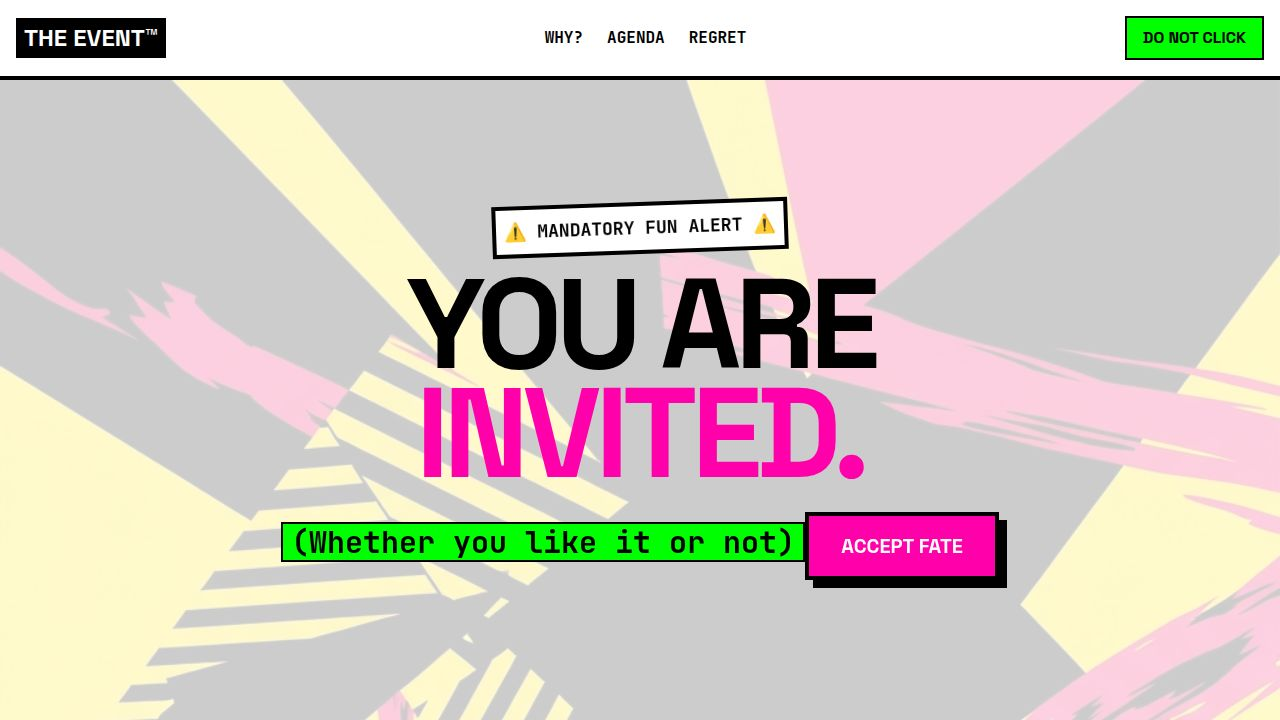
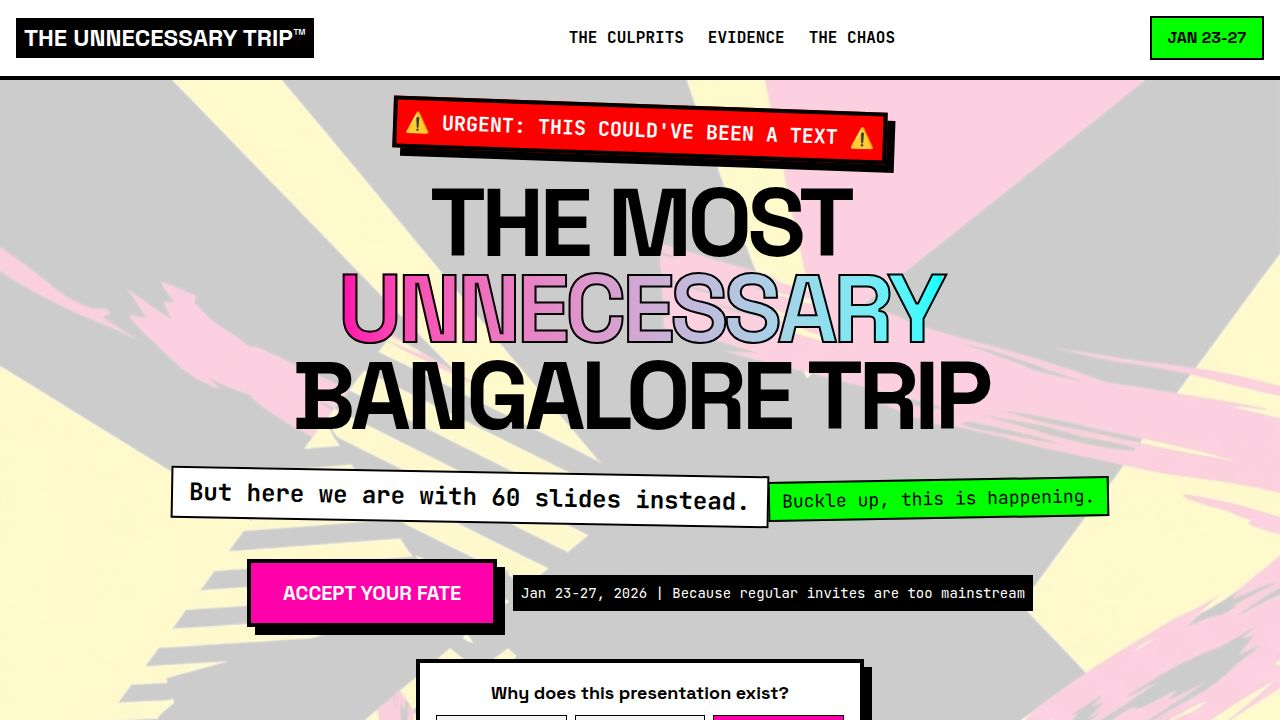
Add a random Devayan jumpscare with music and sarcastic messages
Implement a random jumpscare feature that displays Devayan's image with sound and sarcastic text at random intervals, while also removing Devayan from the team profiles.

Replit-Commit-Author: Agent
Replit-Commit-Session-Id: d5d1d54e-b9a4-4306-8450-256d322cb4c3
Replit-Commit-Checkpoint-Type: full_checkpoint
Replit-Commit-Event-Id: 7fbc8751-13cf-4ea3-a5c9-9e73721240c1
Replit-Commit-Screenshot-Url: https://storage.googleapis.com/screenshot-production-us-central1/db24287d-5229-44f9-9af5-19671401fdfd/d5d1d54e-b9a4-4306-8450-256d322cb4c3/vWiyXXo
Replit-Helium-Checkpoint-Created: true

diff --git a/client/src/pages/home.tsx b/client/src/pages/home.tsx
@@ -1,6 +1,6 @@
 import { useState, useEffect, useCallback } from "react";
 import { Link } from "wouter";
-import { motion } from "framer-motion";
+import { motion, AnimatePresence } from "framer-motion";
 import useEmblaCarousel from "embla-carousel-react";
 
 // Importing the actual assets provided
@@ -11,7 +11,7 @@ import imgShreyansh from "@assets/IMG_7691_1768509225161.jpg";
 import imgHari from "@assets/c84a8361-a995-43db-92d7-10b84a982d25_1768509245380.jpg";
 import imgSarthak from "@assets/Screenshot_20220523-125146_1768509327916.jpg";
 import imgAkshith from "@assets/image_1768509418497.png";
-import imgDevayan from "@assets/image_1768509448883.png";
+import imgDevayan from "@assets/image_1768510221094.png";
 import imgLaser from "@assets/975709d9-04c6-45b1-a32a-995676c8c6ba_1768510093841.jpg";
 import imgLaser2 from "@assets/IMG_6315_1768510136872.jpg";
 import imgLaser3 from "@assets/IMG_6317_1768510136873.jpg";
@@ -42,6 +42,91 @@ const slideshowImages = [
   { src: imgJumpsuit, caption: "Matching outfits because peer pressure is real", alt: "Jumpsuit gang" },
   { src: imgPlayArena, caption: "Playing games is the only exercise we get", alt: "Play arena" },
 ];
+
+// Devayan jumpscare messages
+const jumpscareMessages = [
+  "SURPRISE! You thought you escaped Devayan? WRONG.",
+  "BOO! Devayan is always watching. Always.",
+  "DID YOU MISS ME? Too bad. I'm here anyway.",
+  "PLOT TWIST: Devayan was behind you the whole time.",
+  "YOU CAN'T SCROLL WITHOUT DEVAYAN'S APPROVAL.",
+  "JUMPSCARE! Consider this your daily dose of chaos.",
+  "DEVAYAN HAS ENTERED THE CHAT. RUN.",
+  "THOUGHT THIS WAS A SAFE SPACE? THINK AGAIN.",
+];
+
+// Devayan Jumpscare Component
+const DevayanJumpscare = () => {
+  const [showJumpscare, setShowJumpscare] = useState(false);
+  const [currentMessage, setCurrentMessage] = useState("");
+
+  useEffect(() => {
+    const triggerJumpscare = () => {
+      const randomMessage = jumpscareMessages[Math.floor(Math.random() * jumpscareMessages.length)];
+      setCurrentMessage(randomMessage);
+      setShowJumpscare(true);
+      
+      // Play scary sound
+      const audio = new Audio("https://www.soundjay.com/misc/sounds/fail-buzzer-01.mp3");
+      audio.volume = 0.3;
+      audio.play().catch(() => {}); // Ignore autoplay restrictions
+      
+      // Hide after 2.5 seconds
+      setTimeout(() => setShowJumpscare(false), 2500);
+    };
+
+    // Random interval between 25-60 seconds
+    const scheduleNextJumpscare = () => {
+      const randomDelay = Math.floor(Math.random() * 35000) + 25000;
+      return setTimeout(() => {
+        triggerJumpscare();
+        scheduleNextJumpscare();
+      }, randomDelay);
+    };
+
+    const timeoutId = scheduleNextJumpscare();
+    return () => clearTimeout(timeoutId);
+  }, []);
+
+  return (
+    <AnimatePresence>
+      {showJumpscare && (
+        <motion.div
+          initial={{ opacity: 0, scale: 3 }}
+          animate={{ opacity: 1, scale: 1 }}
+          exit={{ opacity: 0, scale: 0.5 }}
+          transition={{ duration: 0.15 }}
+          className="fixed inset-0 z-[9999] bg-black flex flex-col items-center justify-center cursor-pointer"
+          onClick={() => setShowJumpscare(false)}
+        >
+          <motion.div
+            animate={{ 
+              rotate: [0, -5, 5, -5, 5, 0],
+              scale: [1, 1.1, 1, 1.1, 1]
+            }}
+            transition={{ duration: 0.5, repeat: Infinity }}
+            className="relative"
+          >
+            <img 
+              src={imgDevayan} 
+              alt="DEVAYAN JUMPSCARE" 
+              className="max-w-full max-h-[60vh] object-contain border-8 border-destructive shadow-[0_0_100px_rgba(255,0,0,0.8)]"
+            />
+          </motion.div>
+          <motion.p
+            animate={{ scale: [1, 1.2, 1] }}
+            transition={{ duration: 0.3, repeat: Infinity }}
+            className="text-destructive text-3xl md:text-5xl font-black text-center mt-8 px-4 uppercase"
+            style={{ textShadow: '0 0 20px red, 0 0 40px red' }}
+          >
+            {currentMessage}
+          </motion.p>
+          <p className="text-white/50 text-sm mt-4 font-mono">(click anywhere to dismiss... if you dare)</p>
+        </motion.div>
+      )}
+    </AnimatePresence>
+  );
+};
 
 const SarcasticButton = ({ children, className = "", ...props }: any) => {
   return (
@@ -189,6 +274,9 @@ export default function Home() {
 
   return (
     <div className="min-h-screen bg-background text-foreground overflow-x-hidden font-sans">
+      {/* Devayan Jumpscare - Always active */}
+      <DevayanJumpscare />
+      
       {/* Navigation */}
       <nav className="border-b-4 border-black sticky top-0 bg-white z-50 flex justify-between items-center p-4">
         <div className="text-xl md:text-2xl font-black bg-black text-white px-2 py-1 truncate max-w-[200px] md:max-w-none">
@@ -289,10 +377,10 @@ export default function Home() {
         <div className="max-w-7xl mx-auto">
           <SectionHeading className="bg-white px-4 transform -rotate-1">The Masterminds Behind This Chaos</SectionHeading>
           <p className="text-xl font-bold mb-12 max-w-2xl bg-white border-2 border-black p-4">
-            Introducing: The trio nobody asked for but everyone's stuck with.
+            Introducing: The quartet nobody asked for but everyone's stuck with.
           </p>
 
-          <div className="grid md:grid-cols-2 lg:grid-cols-3 xl:grid-cols-5 gap-8 justify-center">
+          <div className="grid md:grid-cols-2 lg:grid-cols-4 gap-8 justify-center">
             <CharacterCard 
               name="Shreyansh"
               role="The Logistics Guy"
@@ -321,13 +409,6 @@ export default function Home() {
               objectPosition="top"
               desc="The shortest in the group and not the highest in the room. Works at the 'most prestigious firm' (his words, not ours)."
               stats={["Alcohol Tolerance: -5", "First to pass out, guaranteed", "'Krishna ji sab dekh rahe hain'"]}
-            />
-             <CharacterCard 
-              name="Devayan"
-              role="The Wildcard"
-              img={imgDevayan}
-              desc="Added to the group chat by mistake, stayed for the chaos. Probably knows more than he lets on about everything."
-              stats={["Stealth Mode: Always On", "Chaos Contributor: Active", "Vibe Check: Suspiciously Passed"]}
             />
           </div>
         </div>
